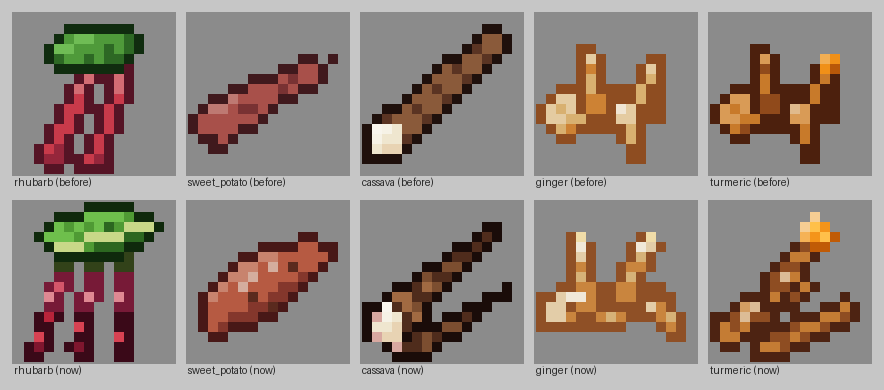
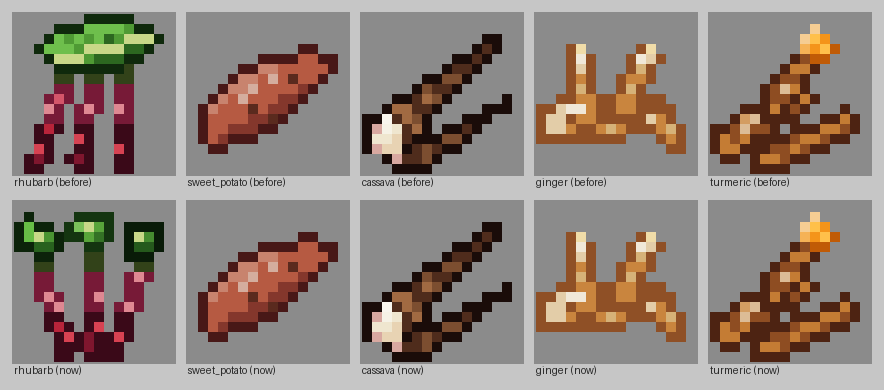
Give each rhubarb stalk its own leaf
Three stalks fan out from the base, each ending in its own small crinkled leaf.

Claude-Session: https://claude.ai/code/session_015LnbBras9DEmUQEKydUTyp

diff --git a/.workflow/art/item_sprites.py b/.workflow/art/item_sprites.py
@@ -1399,16 +1399,17 @@ def rhubarb_hand():
     def stalk_colour(x, y):
         # Deep red at the base, pink through the middle, green-tinged just under the leaf.
         return red if y >= 11 else pink if y >= 7 else green
-    # Three separate stalks, leaning a little, with a gap between each.
-    for start, end in (((2.4, 15.0), (5.4, 5.6)), ((6.6, 15.0), (8.2, 5.2)), ((10.8, 15.0), (11.4, 6.0))):
+    # Three stalks fanning out from the base, each ending in its own small crinkled leaf.
+    stalks = [((5.2, 15.0), (2.6, 6.4), (2.4, 3.6, 30)), ((7.6, 15.0), (7.8, 5.2), (7.8, 2.6, 0)), ((10.0, 15.0), (12.8, 6.6), (13.0, 3.8, -30))]
+    for start, end, _ in stalks:
         s.capsule(stalk_colour, [start, end], (1.2, 1.0))
-    for x, y in [(2, 13), (6, 12), (10, 13), (3, 9), (7, 9), (10, 9)]:
+    for x, y in [(5, 13), (8, 12), (10, 13), (4, 10), (8, 9), (11, 10)]:
         if s.pixels[y][x] is not None:
             s.put(x, y, (red if y >= 11 else pink)[LIGHT])
-    # A big crinkled leaf over the tops, with a pale midrib.
-    leaf = ramp("#4f9a34")
-    s.ellipse(leaf, 8.6, 3.2, 6.2, 2.9, angle=-8, texture=lambda x, y: -1 if (x * 2 + y) % 4 == 0 else 0)
-    s.line(ramp("#c8d888")[BASE], 4, 4, 13, 2)
+    for i, (_, _, (cx, cy, angle)) in enumerate(stalks):
+        leaf = ramp(["#4a9432", "#58a43a", "#468c30"][i])
+        s.ellipse(leaf, cx, cy, 2.6, 2.0, angle=angle, texture=lambda x, y: -1 if (x * 2 + y) % 4 == 0 else 0)
+        s.put(round(cx - 0.5), round(cy - 0.5), ramp("#c8d888")[BASE])
     return s
 
 
